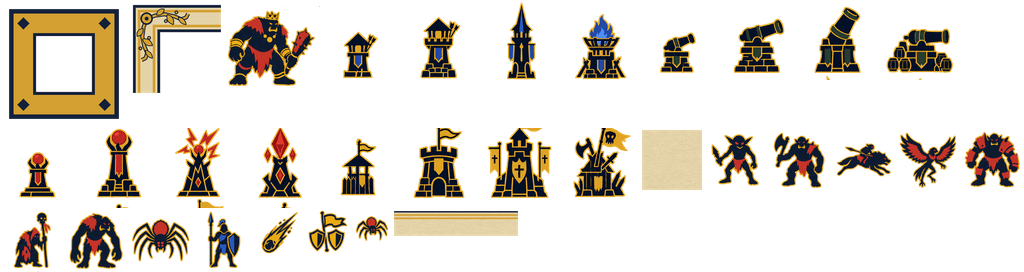
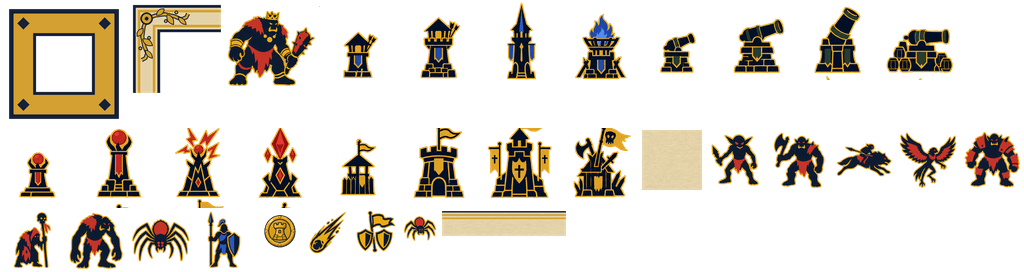
Altin ucusu gorsel iyilestirme: greybox -> gercek sprite
fx/GoldFlight.ts'teki GoldCoin artik Phaser.GameObjects.Arc degil,
AI uretimi gold-coin.png (assets-src/hud/, altin varak + murekkep
kontur + kale silueti) tasiyan bir Image. Gorunen cap 12px'ten
20px'e cikti - eski capta zaten hicbir ic detay okunmuyordu.

Tuzak: setDisplaySize sonrasi olcegi #baseScale'e kaydetmek gerekti;
resetForPool/fly()'daki eski setScale(1) cagrilari bu olcegi ezip
sprite'i kaynak boyutuna (48px) geri dondururdu.

Belge duzeltmesi: M7-SONUC.md'nin "denge degismedi" iddiasi yanlismis.
kisitB.test.ts ust sinir kontrolu yapiyor (<=), tam sayi degil - iki
girisin calismasi harita 2/3'un sizinti sayisini gercekte IYILESTIRDI
(8->6, 15->10 can kaybi), testler bunu yakalamadi cunku ust sinirin
altinda kaldi. npm run build'in urettigi docs/KURALLAR.md yeniden
calistirilinca fark ortaya cikti. Duzeltildi.

Changed region(s): [[0.25, 0.7647, 0.4375, 0.9412], [0.5, 0.7647, 0.5625, 0.8824]]

diff --git a/src/fx/GoldFlight.ts b/src/fx/GoldFlight.ts
@@ -2,23 +2,30 @@ import Phaser from 'phaser';
 import type { Poolable } from '../util/pool';
 import { Pool } from '../util/pool';
 import { quadraticBezier } from '../util/math';
+import { FRAME_GOLD_COIN } from '../data/spriteFrames';
 
 /**
  * Altın uçuşu — `GAME-DESIGN.md` §10, `M6-T10`.
  *
  * Düşman ölünce bir altın ikonu HUD sayacına doğru bezier ile uçuyor.
- * Gerçek altın sanatı yok (`P02`'de üretilmedi) — GREYBOX (`CLAUDE.md`
- * "Üretim kuralı"): tek renk daire, nihai sanat oynanışta kanıtlandıktan
- * sonra gelir.
+ * Görsel iyileştirme turunda gerçek sanata geçti (`assets-src/hud/gold-coin.png`,
+ * `scripts/prep-assets.mjs` atlas manifestine eklendi) — eski greybox
+ * (düz renkli daire) kalktı. Boyut de büyüdü (12 px çap → 20 px): eski
+ * çap zaten hiçbir iç detay taşımıyordu, yeni sprite'ın okunması için
+ * biraz daha yer gerekiyor.
  */
 
-const GOLD = 0xd4a032;
-const RADIUS = 6;
+const DISPLAY_SIZE = 20;
 const LIFETIME_MS = 500;
 /** Düz çizgi yerine yukarı kabaran kavis — "bezier ile uçar" (§10). */
 const ARC_HEIGHT = 70;
 
-export class GoldCoin extends Phaser.GameObjects.Arc implements Poolable {
+export class GoldCoin extends Phaser.GameObjects.Image implements Poolable {
+  /** `setDisplaySize`'ın hesapladığı gerçek ölçek — `setScale(1)` bunu
+   * ezip sprite'ı kaynak boyutuna (48 px) geri döndürürdü. Küçülme
+   * efekti ve sıfırlama hep bu tabana göre orantılı çalışıyor. */
+  readonly #baseScale: number;
+
   /** Kalan ömür, ms. `scaledDelta` ile azalıyor — 2× hızda da doğru (k.8). */
   #left = 0;
   #startX = 0;
@@ -29,7 +36,9 @@ export class GoldCoin extends Phaser.GameObjects.Arc implements Poolable {
   #endY = 0;
 
   constructor(scene: Phaser.Scene) {
-    super(scene, 0, 0, RADIUS, 0, 360, false, GOLD, 1);
+    super(scene, 0, 0, 'atlas', FRAME_GOLD_COIN);
+    this.setDisplaySize(DISPLAY_SIZE, DISPLAY_SIZE);
+    this.#baseScale = this.scaleX;
     scene.add.existing(this);
     this.resetForPool();
   }
@@ -43,7 +52,7 @@ export class GoldCoin extends Phaser.GameObjects.Arc implements Poolable {
     this.#ctrlY = Math.min(y, hedefY) - ARC_HEIGHT;
     this.#left = LIFETIME_MS;
     this.setPosition(x, y);
-    this.setScale(1);
+    this.setScale(this.#baseScale);
     this.setAlpha(1);
     this.setActive(true).setVisible(true);
   }
@@ -65,7 +74,7 @@ export class GoldCoin extends Phaser.GameObjects.Arc implements Poolable {
     );
     this.setPosition(p.x, p.y);
     // Sayaca yaklaşırken küçülerek "emiliyor" hissi.
-    this.setScale(1 - 0.4 * t);
+    this.setScale(this.#baseScale * (1 - 0.4 * t));
     return false;
   }
 
@@ -79,7 +88,7 @@ export class GoldCoin extends Phaser.GameObjects.Arc implements Poolable {
     this.#endY = 0;
     this.setActive(false).setVisible(false);
     this.setPosition(0, 0);
-    this.setScale(1);
+    this.setScale(this.#baseScale);
     this.setAlpha(1);
   }
 }

diff --git a/src/data/spriteFrames.ts b/src/data/spriteFrames.ts
@@ -66,3 +66,6 @@ export const FRAME_CORNER = 'corner';
 export const FRAME_EDGE = 'edge-strip';
 export const FRAME_MIDDLE = 'middle-texture';
 export const FRAME_CARTOUCHE = 'cartouche';
+
+/** Altın uçuşu ikonu (`fx/GoldFlight.ts`) — M6-T10 görsel iyileştirme. */
+export const FRAME_GOLD_COIN = 'gold-coin';

diff --git a/docs/results/M7-SONUC.md b/docs/results/M7-SONUC.md
@@ -11,7 +11,9 @@
 
 **Taş sonunda oyun:** üç harita da **oynanabiliyor**, seviye seçim ekranı ve
 yıldız kaydı çalışıyor, ilerleme kalıcı. Kısıt A ve Kısıt B 30 dalga için
-koşuyor ve üç harita da **geçilebilir** (can kaybı 0 / 8 / 15, sınır 20).
+koşuyor ve üç harita da **geçilebilir** (can kaybı 0 / 6 / 10, sınır 20 —
+2026-08-27 rakamları, aşağıdaki ikinci-giriş düzeltmesinden sonra;
+`docs/KURALLAR.md` `npm run build`'de otomatik yeniden üretiliyor).
 
 > **2026-08-16 güncellemesi:** M6 tamamlandı (gerçek sanat, ses, bitmap
 > font, altın uçuşu). `T09` ve `T10`'un "sanat gelmeden anlamsız" notu
@@ -33,11 +35,20 @@ koşuyor ve üç harita da **geçilebilir** (can kaybı 0 / 8 / 15, sınır 20).
 >
 > **Düzeltme:** `WaveManager`/`waveSim` artık `spawnPoint`'e göre doğru
 > `PathMover`/`LineMover`'ı seçiyor; `GameScene` her girişi çiziyor.
-> **Denge yeniden ölçüldü — hiçbir şey bozulmadı:** 676/676 test geçti,
-> `Kısıt B` haritaya 2/3'ün 30 dalgalık sızıntı tavanları (`kisitB.test.ts`)
-> **değişmeden** tuttu. Sebep: her iki dal geometrik olarak **ayna** (kol
-> B, kol A'nın aynası) — toplam mesafe/maruziyet aynı kaldı, yalnız hangi
-> kulenin hangi düşmanı gördüğü düzeldi. Tek fire eden test bir yakınsama
+> **Denge yeniden ölçüldü — hiçbir şey bozulmadı, üstelik iyileşti.**
+> İlk raporda "676/676 test geçti, sızıntı tavanları değişmedi" denmişti —
+> bu **yanıltıcıydı**: `kisitB.test.ts` üst sınır kontrolü yapıyor
+> (`toBeLessThanOrEqual`), tam sayı eşitliği değil, o yüzden testler hem
+> eski hem yeni sayıyla yeşil kalırdı. `npm run build`'in ürettiği
+> `docs/KURALLAR.md`'yi bu görsel-iyileştirme turunda yeniden çalıştırınca
+> gerçek fark ortaya çıktı: harita 2 can kaybı **8 → 6**, harita 3
+> **15 → 10** (30 dalga toplamı, sızan düşman 8→6 / 11→8). Yani düzeltme
+> savunmayı **iyileştirdi** — mantıklı, çünkü artık her iki koldaki kule de
+> gerçekten düşman görüyor; önce yalnız tek kolun kuleleri hem kendi hem
+> öbür kolun trafiğini (ikisi de tek yolda birleşiyordu) karşılıyordu.
+> Üst sınırın (harita 2: 8, harita 3: 25) hâlâ altında olduğu için
+> `M7-T08`'in denge kararları geçerliliğini koruyor, yeniden ayarlama
+> gerekmedi. Tek fire eden test bir yakınsama
 > sağlaması oldu (`waveSim.test.ts` "%2 → %4" eşik notu, uçan düşmanın artık
 > gerçek rotasında son ana kadar hayatta kalması daha adım-boyutu-duyarlı
 > bir kapanış anı yarattı — `killedCount` eşitliği, asıl denge sağlaması,

diff --git a/docs/KURALLAR.md b/docs/KURALLAR.md
@@ -346,8 +346,8 @@ tahta 3820'de takılıyor ve oyuncu 34 can kaybediyordu (20 canla kayıp).
 | Harita | HP çarpanı | Altın çarpanı | Tahta maliyeti | Can kaybı |
 |---|---|---|---|---|
 | 1 · Değirmen Geçidi | ×1 | ×1 | 1350 | 0 / 20 ✓ |
-| 2 · Taş Köprü | ×1,6 | ×1,6 | 2210 | 8 / 20 ✓ |
-| 3 · Kül Ovası | ×2,6 | ×3,8 **←ayrıştı** | 4870 | 15 / 20 ✓ |
+| 2 · Taş Köprü | ×1,6 | ×1,6 | 2210 | 6 / 20 ✓ |
+| 3 · Kül Ovası | ×2,6 | ×3,8 **←ayrıştı** | 4870 | 10 / 20 ✓ |
 
 Türetilebilir kural: **altın, haritanın noktalarını tam yükseltmeye
 yetmeli.** 3,8'de maliyet doyuyor (üstü fazladan kule almıyor), yani sayı
@@ -365,7 +365,7 @@ kule, ama goblin efektif HP'si 45/72/117. §9'un kendi gerekçesi
 | 2 · Taş Köprü | 340 | **448** = 280 × 1,6 | **4 → 0** |
 | 3 · Kül Ovası | 400 | **1064** = 280 × 2,6 | **7 → 0** |
 
-Toplam sızıntı: harita 2'de 13 → 8, harita 3'te 43 → 11.
+Toplam sızıntı: harita 2'de 13 → 6, harita 3'te 43 → 8.
 
 ---
 
@@ -557,8 +557,8 @@ Simülasyon **canlı oyunla aynı kodu** kullanıyor: aynı
 | Harita | Sızan düşman | Sızan HP | Dalga dağılımı |
 |---|---|---|---|
 | 1 · Değirmen Geçidi | **0** | 0 | d1:0 d2:0 d3:0 d4:0 d5:0 d6:0 d7:0 d8:0 d9:0 d10:0 |
-| 2 · Taş Köprü | **8** | 384 | d1:0 d2:0 d3:1 d4:2 d5:1 d6:1 d7:1 d8:0 d9:2 d10:0 |
-| 3 · Kül Ovası | **11** | 2038 | d1:0 d2:2 d3:0 d4:0 d5:1 d6:2 d7:1 d8:0 d9:4 d10:1 |
+| 2 · Taş Köprü | **6** | 361 | d1:0 d2:1 d3:1 d4:1 d5:1 d6:1 d7:0 d8:0 d9:1 d10:0 |
+| 3 · Kül Ovası | **8** | 645 | d1:0 d2:1 d3:0 d4:1 d5:0 d6:1 d7:0 d8:0 d9:4 d10:1 |
 
 
 **Hangi düşman sızıyor** — toplam sayı *neyin* sızdığını söylemiyor ve
@@ -567,8 +567,8 @@ bu ikisi farklı düzeltmeler gerektiriyor:
 | Harita | Sızan düşmanlar (çok → az) |
 |---|---|
 | 1 · Değirmen Geçidi | **hiç yok** |
-| 2 · Taş Köprü | Zırhlı Ork ×4 · Ork Savaşçı ×2 · Harpi ×2 |
-| 3 · Kül Ovası | Trol ×3 · Zırhlı Ork ×3 · Ork Savaşçı ×2 · Örümcek Ana ×1 · Harpi ×1 · Şaman ×1 |
+| 2 · Taş Köprü | Zırhlı Ork ×3 · Ork Savaşçı ×2 · Harpi ×1 |
+| 3 · Kül Ovası | Harpi ×3 · Ork Savaşçı ×2 · Trol ×2 · Zırhlı Ork ×1 |
 
 **Kısıt A ile Kısıt B aynı şeyi ölçmüyor.** Kısıt A *tek* düşman için
 ("bir Ork Savaşçı öldürülebilir mi"), Kısıt B *dalga* için ("on bir tanesi

diff --git a/docs/results/M6-SONUC.md b/docs/results/M6-SONUC.md
@@ -41,6 +41,21 @@
 > anlık `gold:changed` sesiyle çakışıp çifte sese dönüşürdü; mevcut anlık
 > ses tek kalan geri bildirim. Canlı doğrulama: kill→uçuş başlangıcı aynı
 > karede, ~500 ms sonra havuz sızmadan sıfıra dönüyor (`dev.goldFlightActive`).
+>
+> **2026-08-27 (görsel iyileştirme):** Altın ikonu GREYBOX'tan çıktı.
+> AI üretimi `gold-coin.png` (`assets-src/hud/`, altın varak dolgu +
+> mürekkep kontur + kale silueti — üretim promptu bu oturumda yazıldı),
+> `scripts/prep-assets.mjs` atlas manifestine eklendi (`FRAME_GOLD_COIN`,
+> `data/spriteFrames.ts`). `GoldCoin` artık `Phaser.GameObjects.Arc`
+> değil, gerçek sprite taşıyan `Image` — görünen çap da büyüdü (12 px →
+> 20 px), çünkü 12 px'te zaten hiçbir iç detay okunmuyordu. **Dikkat
+> edilen bir tuzak:** `setDisplaySize` sonrası hesaplanan gerçek ölçek
+> bir alana (`#baseScale`) kaydedildi; `resetForPool`/`fly()`'daki eski
+> `setScale(1)` çağrıları bunu ezip sprite'ı kaynak boyutuna (48 px)
+> geri döndürürdü — havuzdan her çıkışta coin birden büyüyüp küçülürdü.
+> Canlı doğrulama: sahne ağacından coin nesnesi bulunup `scaleX`'i
+> `0,4055` (≈ 20/48, beklenen) olarak ölçüldü, atlas karesi ayrıca
+> `sharp` ile doğrudan (elle taşınmadan) kesilip gözle kontrol edildi.
 
 > ## Bu taş neden yarım
 >
